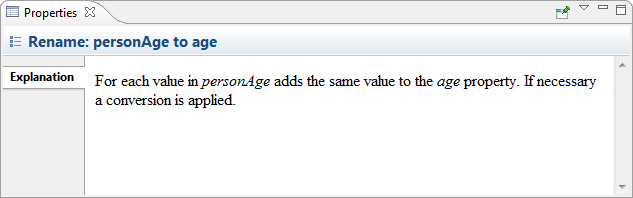
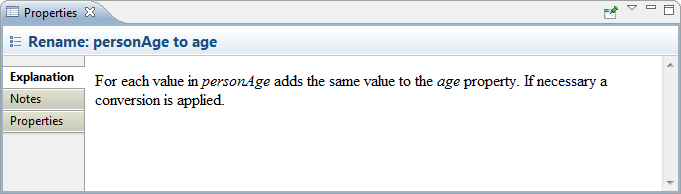
updated help on schema explorer and alignment view

Changed region(s): [[0.0, 0.0, 1.0, 1.0]]

diff --git a/doc/plugins/eu.esdihumboldt.hale.doc.user/html/views/alignment.html b/doc/plugins/eu.esdihumboldt.hale.doc.user/html/views/alignment.html
@@ -8,25 +8,63 @@
 	<h1>Alignment view</h1>
 	<p>
 		The <i>Alignment view</i> displays the current alignment in a graph
-		representation. At the top of the view is a combo box, where your can
-		select a defined type relation. The mapping cells displayed are those
-		that are associated with the selected relation. This is always the
-		corresponding cell, defining the type relation, but also the mappings
-		on properties that are applicable in the context of the mapped types.
-		The image below shows the mapping of the example project provided in
-		the <a class="command-link"
-			href='javascript:executeCommand("org.eclipse.ui.cheatsheets.openCheatSheet(cheatSheetId=eu.esdihumboldt.hale.ui.firststeps.firststepsCS)")'>
-			<img src="PLUGINS_ROOT/org.eclipse.help/command_link.png"
-			alt="command link">Get started with HALE</a> guide.
+		representation. By default the existing type relations are displayed
+		(see image below), the selectors at the top of the view can be used to
+		show relations associated to specific source or target types, or to a
+		specific type relation.
 	</p>
 	<div>
-		<img src="images/alignment_view.png" title="Alignment view" class="fit">
+		<img src="images/alignment_type_relations.png" title="Alignment view with type relations" class="fit">
 	</div>
+	<p>
+		To select a type relation either double click on the cell of the type
+		relation displayed in the view or use the <i>Select cell</i> button in
+		the middle. If a cell is already selected, the button will state the
+		name of the selected relation. Pressing the button will launch a
+		dialog where you can select a type relation. The image below shows the
+		mapping of the example project provided in the <a class="command-link"
+			href='javascript:executeCommand("org.eclipse.ui.cheatsheets.openCheatSheet(cheatSheetId=eu.esdihumboldt.hale.ui.firststeps.firststepsCS)")'>
+			<img src="PLUGINS_ROOT/org.eclipse.help/command_link.png"
+			alt="command link">Get started with HALE</a>
+		guide. The mapping cells displayed are those that are associated with
+		the selected relation. This is always the corresponding cell, defining
+		the type relation, but also the mappings on properties that are
+		applicable in the context of the mapped types.
+	</p>
+	<div>
+		<img src="images/alignment_cell_relations.png" title="Relations applicable in the context of a selected type relation" class="fit">
+	</div>
+	<p>Using the filter buttons in the view bar, you can show or hide certain relations:</p>
+	<table>
+		<tr>
+			<td><img src="images/augmentation.gif"></td>
+			<td>Cells that are not linked to source schema elements, so called <i>Augmentations</i></td>
+		</tr>
+		<tr>
+			<td><img src="images/base_alignment.gif"></td>
+			<td>Cells from base alignments</td>
+		</tr>
+		<tr>
+			<td><img src="images/disabled.gif"></td>
+			<td>Cells that are disabled in context of the current type relation</td>
+		</tr>
+		<tr>
+			<td><img src="images/inherited.png"></td>
+			<td>Cells that are applicable in the current context only through inheritance</td>
+		</tr>
+	</table>
+	<p>
+		To show relations based on source or target types, independently of
+		defined type relations, make sure there is no type relation selected,
+		then select a type in the field to the left or right of the <i>Select
+			cell</i> button.
+	</p>
 	<p>
 		You can select a schema element or <i>cell</i> by clicking on the
 		respective graph node. The selected node is highlighted with a yellow
 		background. The image below shows the explanation of a selected <i>cell</i>
-		in the <a href="../properties.html">Properties view</a>.
+		in the <a href="../properties.html">Properties view</a>. In the <i>Notes</i>
+		section you can associate comments to the cell.
 	</p>
 	<div>
 		<img src="images/alignment_properties.png" title="Cell properties" class="fit">
@@ -34,7 +72,10 @@
 	<p>
 		The <i>Alignment view</i> also offers the possibility to manipulate
 		the mapping. A selected cell may be edited or removed, using either
-		the context menu or the <i>Edit</i> menu in the main menu bar.
+		the context menu or the <i>Edit</i> menu in the main menu bar. Also,
+		an existing cell can be replaced with another function, the cell
+		priority can be set and the cell can be enabled or disabled in the
+		context of the current type relation.
 	</p>
 	<div>
 		<img src="images/alignment_actions.png" title="Cell context menu" class="fit">
@@ -47,6 +88,9 @@
 			src="PLUGINS_ROOT/eu.esdihumboldt.hale.doc.user/images/ngrelc.png">
 		<p>
 			<a href="PLUGINS_ROOT/eu.esdihumboldt.hale.doc.user/html/concepts/what_is_alignment.html">What is an Alignment?</a>
+		</p>
+		<p>
+			<a href="PLUGINS_ROOT/eu.esdihumboldt.hale.doc.user/html/concepts/what_is_a_mapping_cell.html">What is a mapping cell?</a>
 		</p>
 	</div>
 	

diff --git a/doc/plugins/eu.esdihumboldt.hale.doc.user/html/views/schema_explorer.html b/doc/plugins/eu.esdihumboldt.hale.doc.user/html/views/schema_explorer.html
@@ -87,6 +87,10 @@
 			<td>Value assignment independent of the source schema</td>
 		</tr>
 	</table>
+	<p>There are light and dark variants of the background colors for
+		properties. The darker background stands for a direct mapping of the
+		property, while properties with the light background color are mapped
+		indirectly through inheritance.</p>
 	<p>The tool bar atop each schema viewer allows to filter the schema
 		elements according to their classification. You can also enter a
 		filter string, to search for types or properties with certain names.</p>
@@ -94,6 +98,48 @@
 		schema elements using a filter string is restricted to eight levels
 		deep, to maintain an acceptable feedback time. If the schema contains
 		cycles, the search result may still go deeper than eight levels.</p>
+		
+	<h2>Display modes</h2>
+	<p>
+		In the <i>Schema Explorer</i> you can choose between two different
+		modes for displaying the types contained in the schemas:
+	</p>
+	<table>
+		<tr>
+			<td><img src="images/flat_hierarchy.png"></td>
+			<td>All types are displayed in a flat list, children of types are properties of the type.</td>
+		</tr>
+		<tr>
+			<td><img src="images/inheritance_hierarchy.png"></td>
+			<td>Types are displayed by the inheritance hierarchy. Sub-types
+				are children of their super-types, in addition to the super-types'
+				properties.</td>
+		</tr>
+	</table>
+	<p>Using the filter buttons in the view bar, you can show or hide
+		certain properties in the schema types:</p>
+	<table>
+		<tr>
+			<td><img src="images/empty.gif"></td>
+			<td>Properties that have values in the currently loaded data</td>
+		</tr>
+		<tr>
+			<td><img src="images/inherited.gif"></td>
+			<td>Properties that are inherited from a super type.</td>
+		</tr>
+	</table>
+	<p>Hiding the inherited properties, in combination with displaying
+		the types according to their hierarchy, is very useful for analyzing
+		the type hierarchy. The images below show the INSPIRE
+		HydroPhysicalWaters schema with the types as list (left) and the types
+		arranged according to the hierarchy and only displaying properties
+		that are not inherited (right).</p>
+	<table>
+		<tr>
+			<td><img src="images/schema_list.png"></td>
+			<td><img src="images/schema_hierarchy.png"></td>
+		</tr>
+	</table>
 
 	<br>
 	<!-- related concepts: schema stuff, contexts! -->

diff --git a/doc/plugins/eu.esdihumboldt.hale.doc.user/html/concepts/what_is_a_mapping_cell.html b/doc/plugins/eu.esdihumboldt.hale.doc.user/html/concepts/what_is_a_mapping_cell.html
@@ -2,20 +2,20 @@
 <html>
 <head>
 <meta http-equiv="Content-Type" content="text/html; charset=ISO-8859-1">
-<title>What is a Mapping Cell?</title>
+<title>What is a mapping cell?</title>
 </head>
 
 <body>
-	<h1>What is a Mapping Cell?</h1>
+	<h1>What is a mapping cell?</h1>
 
 	<p>
-		A Mapping Cell is the smallest relation contained in an <a
+		A <i>mapping cell</i> is an atomic relation contained in an <a
 			href="what_is_alignment.html">Alignment.</a>
 	</p>
 
 	<p>
 		A <i>cell</i> specifies source and target entities, a relation
-		function and possibly parameters for the function.
+		<a href="functions.html">function</a> and possibly parameters for the function.
 	</p>
 
 	In the image below a mapping cell is represented as it would be
@@ -46,6 +46,21 @@
 		<p style="font-size: 0.8em;">
 			<i>The case of two relations mapped to a target entity. <a
 				href="cell_priority.html">Cell priority</a>  is mandatory.</i>
+		</p>
+	</div>
+	
+	<br>
+	<!-- related concepts: Functions -->
+	<div>
+		<br> <img
+			src="PLUGINS_ROOT/eu.esdihumboldt.hale.doc.user/images/ngrelc.png">
+		<p>
+			<a
+				href="PLUGINS_ROOT/eu.esdihumboldt.hale.doc.user/html/concepts/what_is_alignment.html">What is an Alignment?</a>
+		</p>
+		<p>
+			<a
+				href="PLUGINS_ROOT/eu.esdihumboldt.hale.doc.user/html/concepts/functions.html">Functions</a>
 		</p>
 	</div>
 

diff --git a/doc/plugins/eu.esdihumboldt.hale.doc.user/html/concepts/what_is_alignment.html b/doc/plugins/eu.esdihumboldt.hale.doc.user/html/concepts/what_is_alignment.html
@@ -45,6 +45,10 @@
 		</p>
 		<p>
 			<a
+				href="PLUGINS_ROOT/eu.esdihumboldt.hale.doc.user/html/concepts/what_is_a_mapping_cell.html">What is a mapping cell?</a>
+		</p>
+		<p>
+			<a
 				href="PLUGINS_ROOT/eu.esdihumboldt.hale.doc.user/html/concepts/functions.html">Functions</a>
 		</p>
 	</div>
